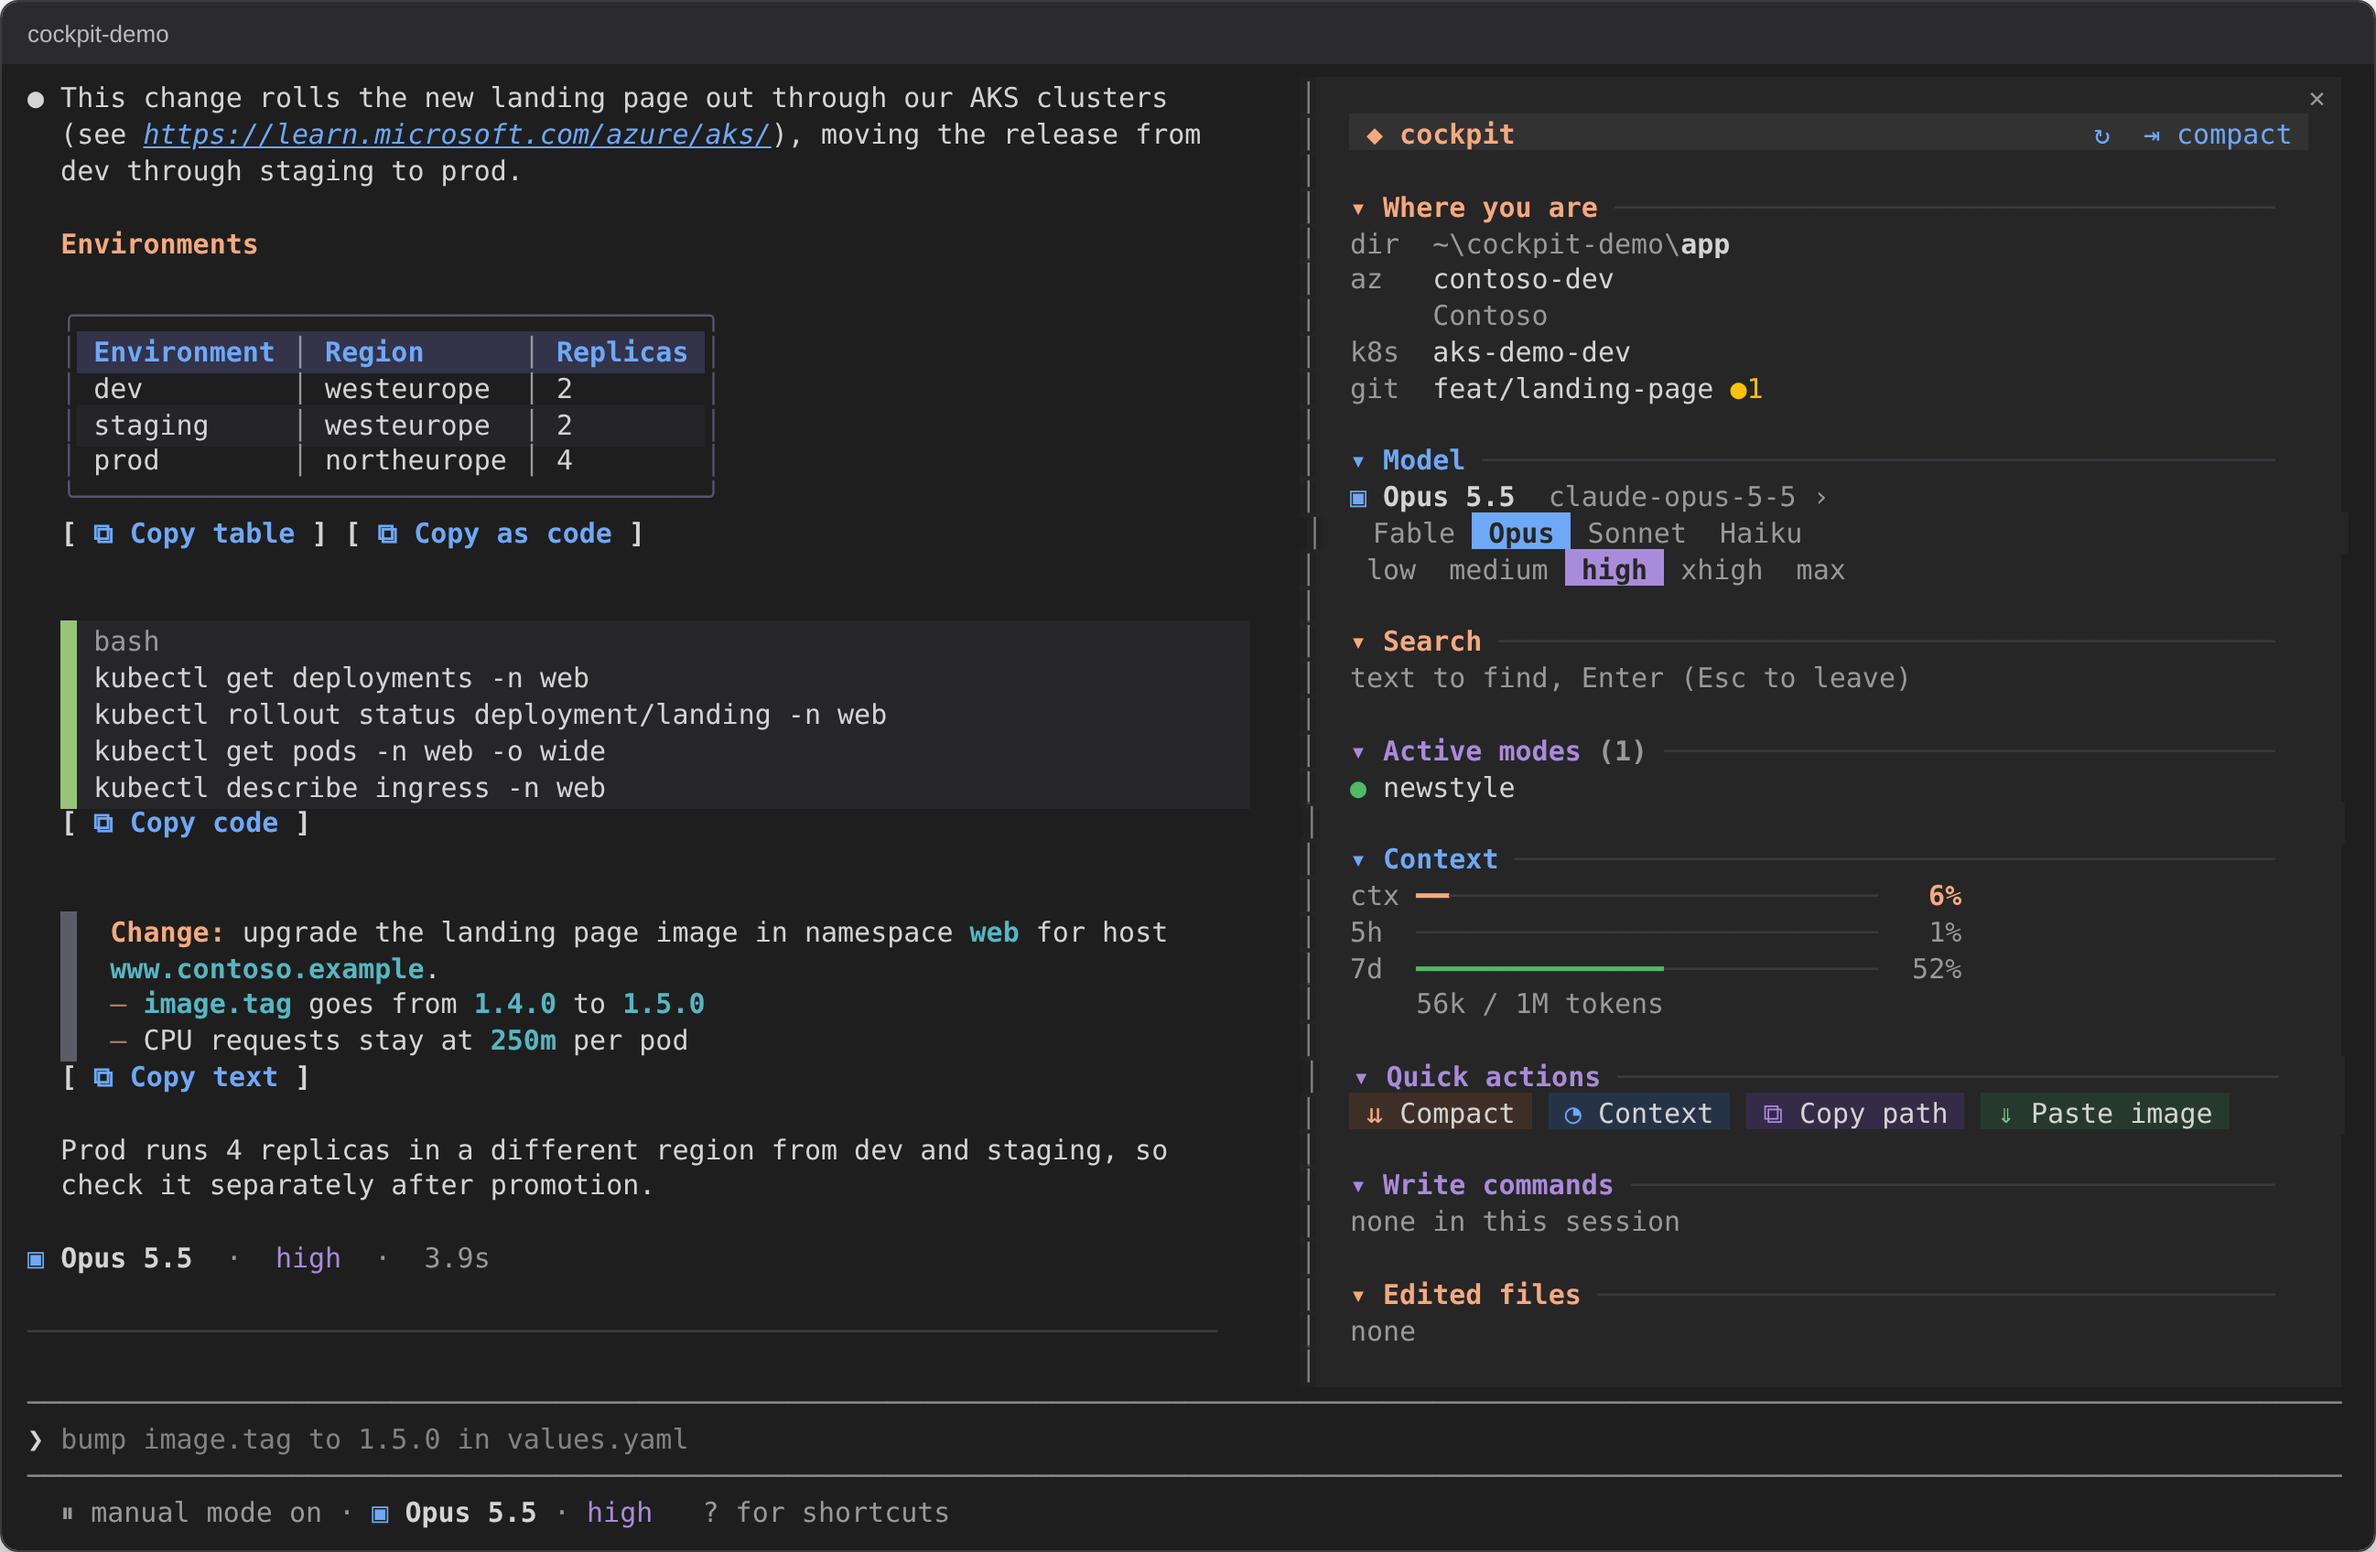
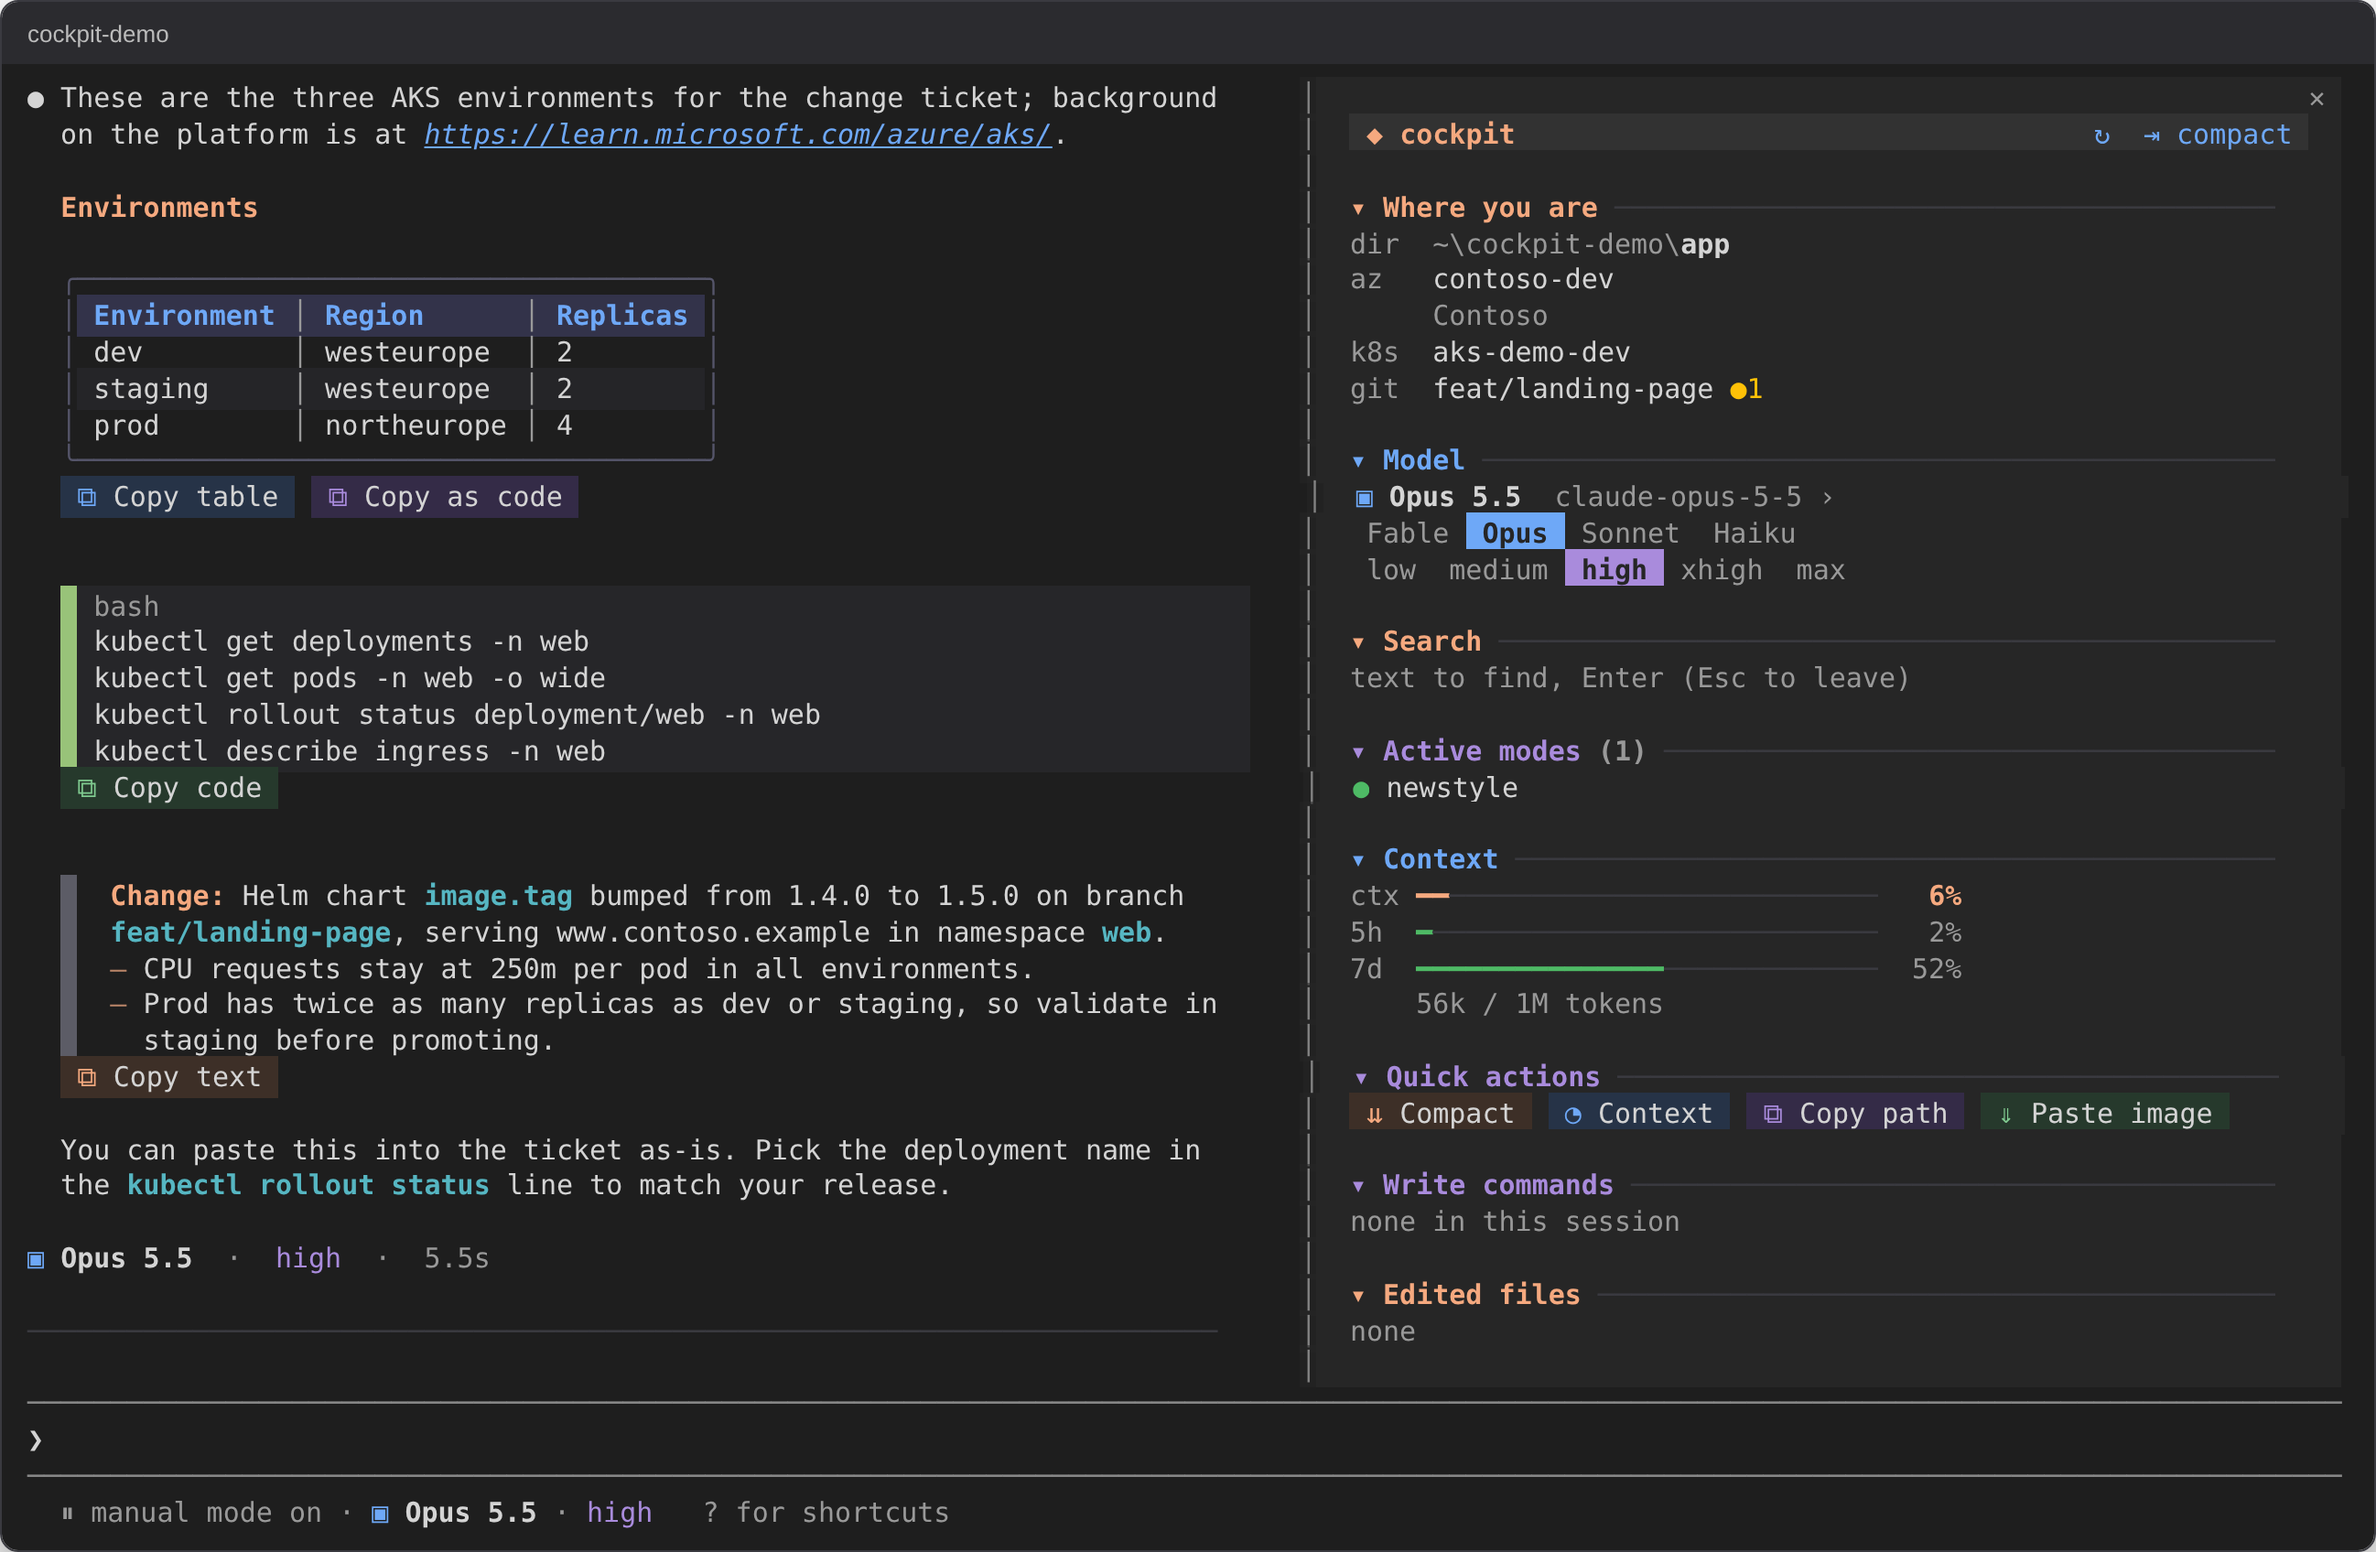
feat: chat Copy buttons as coloured chips (code green, table blue, as code violet, text orange)
Claude-Session: https://claude.ai/code/session_01H9XCFzxYvkbkopXCq5uiUw

diff --git a/hooks/register.tsx b/hooks/register.tsx
@@ -2465,12 +2465,13 @@ export const register: Register = (on, options) => {
                   </Box>
                   <Button
                     key={`code-${ci}`}
+                    plain
                     onPress={async press => {
                       const r = await $.ui.copy({ text: src, surface: press.surface })
                       $.ui.toast(r.isCopied ? `Code copied (${src.split('\n').length} lines)` : 'Copy failed')
                     }}
                   >
-                    <Text color={BLUE}>⧉ Copy code</Text>
+                    <Text backgroundColor={CHIP_GREEN}><Text color={GREEN}>{' ⧉ '}</Text>{'Copy code '}</Text>
                   </Button>
                 </Box>
               )
@@ -2505,19 +2506,20 @@ export const register: Register = (on, options) => {
                     </Box>
                   )}
                   <Box flexDirection="row">
-                    <Button key={`tab-${i}`} onPress={() => void copyTable($, t)}>
-                      <Text color={BLUE}>⧉ Copy table{nTables > 1 ? ` ${i}` : ''}</Text>
+                    <Button key={`tab-${i}`} plain onPress={() => void copyTable($, t)}>
+                      <Text backgroundColor={CHIP_BLUE}><Text color={BLUE}>{' ⧉ '}</Text>{`Copy table${nTables > 1 ? ` ${i}` : ''} `}</Text>
                     </Button>
                     <Box marginLeft={1}>
                       <Button
                         key={`tabtxt-${i}`}
+                        plain
                         onPress={() => {
                           // a <pre> block: Teams pastes it as a code block, compact and aligned
                           const txt = tableText(t)
                           void copyRich($, `<pre style='font-family:Consolas,monospace;font-size:10pt'>${esc(txt)}</pre>`, txt.replace(/\n/g, '\r\n'), 'Table copied as a code block: paste it into Teams, Outlook or Word')
                         }}
                       >
-                        <Text color={BLUE}>⧉ Copy as code</Text>
+                        <Text backgroundColor={CHIP_VIOLET}><Text color={VIOLET}>{' ⧉ '}</Text>{'Copy as code '}</Text>
                       </Button>
                     </Box>
                   </Box>
@@ -2560,8 +2562,8 @@ export const register: Register = (on, options) => {
                       {prose(quote)}
                     </Box>
                   </Box>
-                  <Button key={`quote-${qi}`} onPress={() => void copyRich($, mdHtml(quote), mdPlain(quote), 'Text copied with its formatting: paste it into Teams, Outlook or a web form')}>
-                    <Text color={BLUE}>⧉ Copy text</Text>
+                  <Button key={`quote-${qi}`} plain onPress={() => void copyRich($, mdHtml(quote), mdPlain(quote), 'Text copied with its formatting: paste it into Teams, Outlook or a web form')}>
+                    <Text backgroundColor={CHIP_ORANGE}><Text color={ACCENT}>{' ⧉ '}</Text>{'Copy text '}</Text>
                   </Button>
                 </Box>
               )
